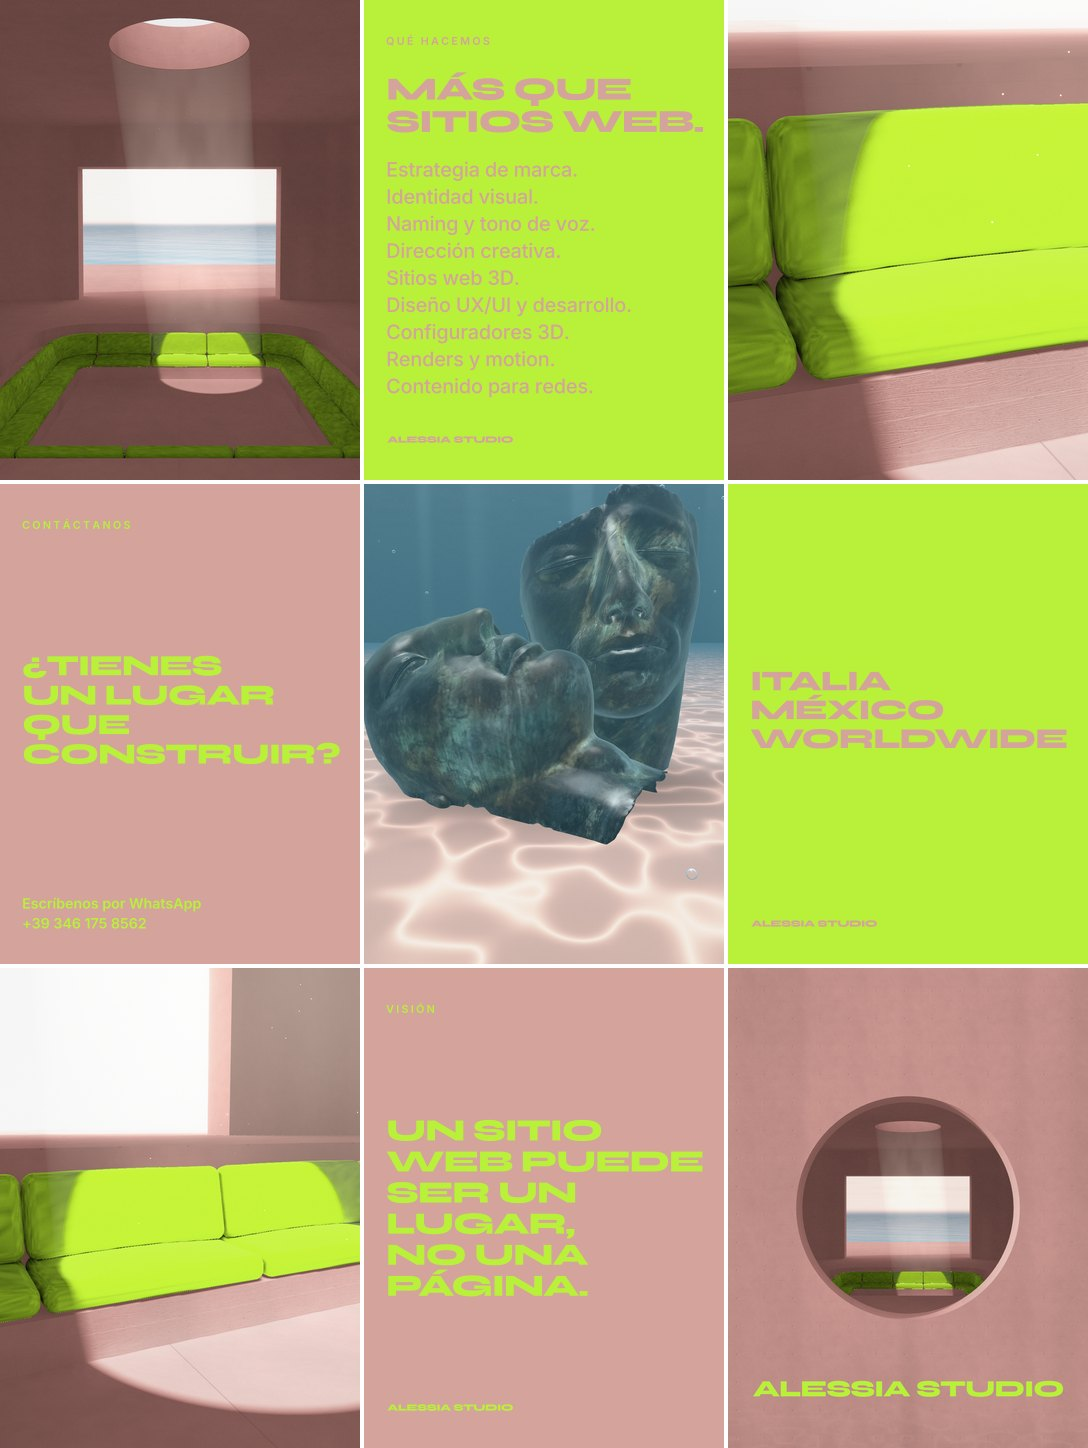
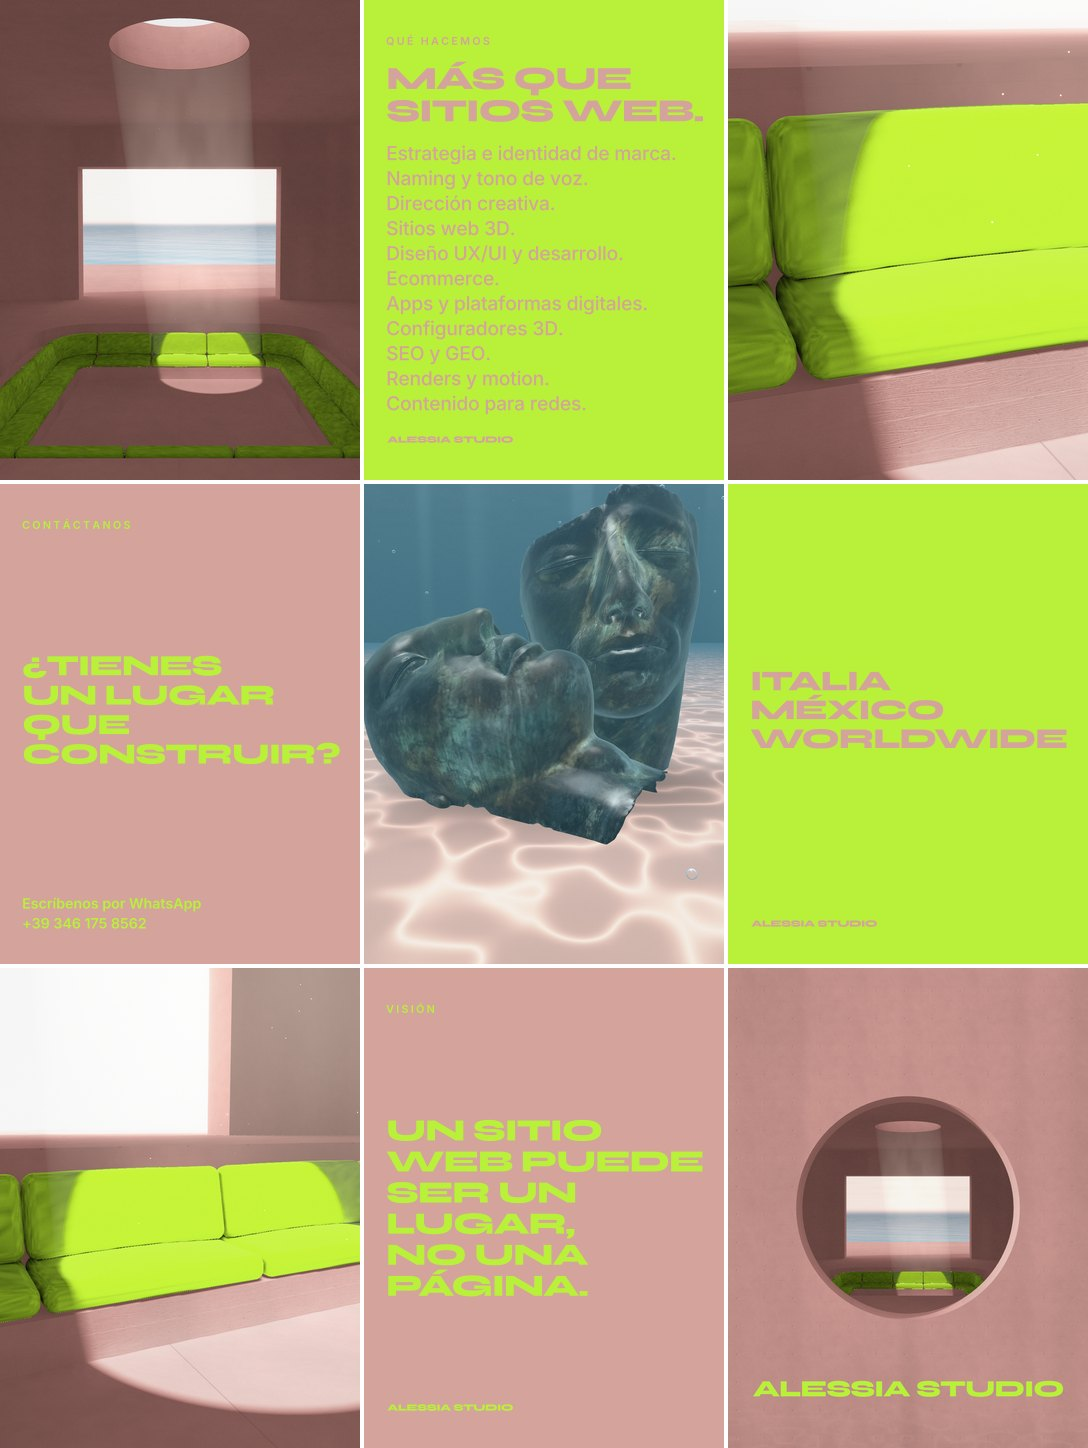
Marchio: post 8 con ecommerce, app e piattaforme digitali, SEO e GEO
Undici servizi, uno per riga (strategia e identità in una riga sola); il corpo
dell'elenco si adatta perché stia sopra il logo. Nel brief i nuovi servizi
sono segnati come presenti per ora solo su Instagram.

Claude-Session: https://claude.ai/code/session_01QuJDfzDVvdCMJCQg1EtV47

Changed region(s): [[0.3438, 0.0311, 0.6562, 0.3108]]

diff --git a/alessia-studio/brand/BRIEF-instagram.md b/alessia-studio/brand/BRIEF-instagram.md
@@ -56,7 +56,8 @@ designer). Il sito non si "guarda": si visita, si attraversa.
 - **Marca:** estrategia y posicionamiento · branding e identidad visual · naming y tono de voz ·
   dirección creativa y de arte
 - **Digital:** sitios web 3D inmersivos · diseño UX/UI · showrooms y configuradores 3D · desarrollo,
-  publicación y mantenimiento
+  publicación y mantenimiento · ecommerce · apps y plataformas digitales · SEO y GEO (questi ultimi tre
+  per ora solo su Instagram, non sul sito)
 - **Contenido:** renders y animaciones 3D · motion design y video · contenido para redes sociales ·
   campañas y lanzamientos
 
